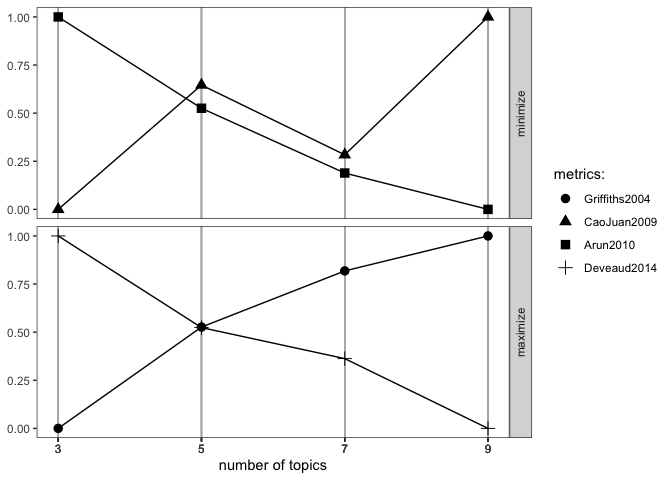
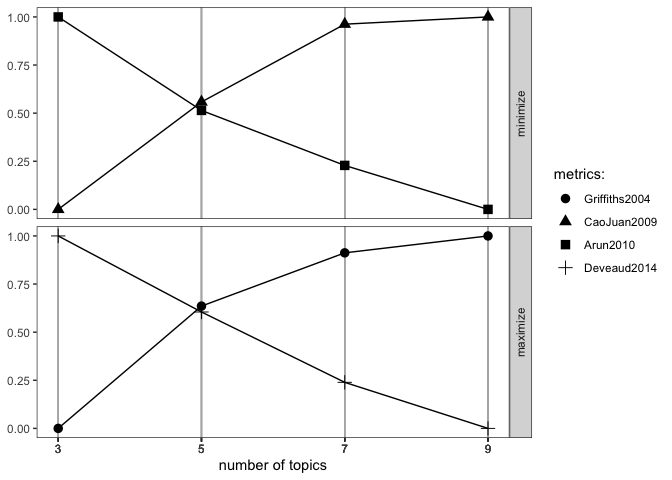
fixed several typos for next cran release

diff --git a/README.md b/README.md
@@ -23,7 +23,7 @@ You can install `Twitmo` from CRAN with:
 install.packages("Twitmo")
 ```
 
-You can install `Twitmo` from GitHub with:
+You can install `Twitmo` from Github with:
 
 Before you install from Github make sure you have Rtools for
 [Windows](https://cran.r-project.org/bin/windows/Rtools/ "Rtools for Windows (CRAN)")
@@ -102,17 +102,17 @@ model <- fit_lda(pool.dfm, n_topics = 7)
 
 ``` r
 lda_terms(model)
-#>    Topic.1 Topic.2       Topic.3       Topic.4   Topic.5 Topic.6      Topic.7
-#> 1    paola    meet tenrestaurant          like       see morning         team
-#> 2     says  people      downtown          time       job   music          job
-#> 3    puppy   first     knoxville            us      link     see       season
-#> 4      bio     big         crazy      birthday       bio holiday championship
-#> 5     link  always       covered     girlhappy     click  church    democrats
-#> 6   hiring    love        waffle birthdaytasha     great  sunday         jeff
-#> 7      job    last        sooooo        church       can    yall     sessions
-#> 8    click   night         today          life recommend    word         lose
-#> 9       sc     fun        laurel     beautiful    anyone general           us
-#> 10  latest    good          glen       posting     today worship        place
+#>      Topic.1       Topic.2   Topic.3 Topic.4       Topic.5 Topic.6    Topic.7
+#> 1      today         music beautiful   paola           job    good   downtown
+#> 2     laurel       holiday      life    says          link    meet  knoxville
+#> 3       glen          time    season   puppy           bio  people       like
+#> 4   trailing      birthday      like  church tenrestaurant   first         us
+#> 5       oaks     girlhappy   posting     job         click     big       care
+#> 6    tuscany birthdaytasha      olde      us           see  always     theres
+#> 7         ii         today       end    link         crazy    love    nothing
+#> 8     design       morning      days     bio       covered    last      quite
+#> 9  perfectly         early    grains     see        waffle   night         tn
+#> 10     sized    photoshoot      sand  sunday        sooooo     fun especially
 ```
 
 or which hashtags are heavily associated with each topic
@@ -122,52 +122,52 @@ lda_hashtags(model)
 #>                      Topic
 #> mood                     4
 #> motivate                 5
-#> healthcare               5
-#> mrrbnsnathome            3
-#> newyork                  3
-#> breakfast                3
-#> thisismyplace            6
-#> p4l                      6
-#> chinup                   1
-#> sundayfunday             1
-#> saintsgameday            1
-#> instapuppy               1
-#> woof                     1
-#> tailswagging             1
-#> tickfire                 6
-#> msiclassic               7
-#> nyc                      2
-#> about                    2
-#> joethecrane              2
-#> government               1
-#> ladystrut19              6
-#> ladystrutaccessories     6
-#> smartnews                7
-#> sundaythoughts           5
-#> sf100                    2
-#> openhouse                3
-#> springtx                 3
+#> healthcare               7
+#> mrrbnsnathome            5
+#> newyork                  5
+#> breakfast                5
+#> thisismyplace            4
+#> p4l                      4
+#> chinup                   4
+#> sundayfunday             4
+#> saintsgameday            4
+#> instapuppy               4
+#> woof                     4
+#> tailswagging             4
+#> tickfire                 1
+#> msiclassic               3
+#> nyc                      6
+#> about                    6
+#> joethecrane              6
+#> government               5
+#> ladystrut19              2
+#> ladystrutaccessories     2
+#> smartnews                5
+#> sundaythoughts           2
+#> sf100                    6
+#> openhouse                1
+#> springtx                 1
 #> labor                    5
 #> norfolk                  5
-#> oprylandhotel            7
-#> pharmaceutical           4
-#> easthanover              1
-#> sales                    1
-#> scryingartist            4
-#> beautifulskyz            4
-#> knoxvilletn              3
-#> downtownknoxville        3
-#> heartofservice           4
-#> youthmagnet              4
-#> youthmentor              4
-#> bonjour                  6
+#> oprylandhotel            3
+#> pharmaceutical           5
+#> easthanover              4
+#> sales                    4
+#> scryingartist            3
+#> beautifulskyz            3
+#> knoxvilletn              7
+#> downtownknoxville        7
+#> heartofservice           2
+#> youthmagnet              2
+#> youthmentor              2
+#> bonjour                  2
 #> trump2020                6
-#> spiritchat               4
-#> columbia                 1
-#> newcastle                7
+#> spiritchat               7
+#> columbia                 3
+#> newcastle                4
 #> oncology                 5
-#> nbatwitter               7
-#> detroit                  1
+#> nbatwitter               1
+#> detroit                  5
 ```
 
 ## Inspecting LDA distributions
@@ -177,54 +177,54 @@ Check the distribution of your LDA Model with
 ``` r
 lda_distribution(model)
 #>                         V1    V2    V3    V4    V5    V6    V7
-#> mood                 0.001 0.001 0.001 0.995 0.001 0.001 0.001
-#> motivate             0.001 0.001 0.001 0.001 0.993 0.001 0.001
-#> healthcare           0.001 0.001 0.001 0.001 0.996 0.001 0.001
-#> mrrbnsnathome        0.002 0.002 0.988 0.002 0.002 0.002 0.002
-#> newyork              0.002 0.002 0.988 0.002 0.002 0.002 0.002
-#> breakfast            0.002 0.002 0.988 0.002 0.002 0.002 0.002
-#> thisismyplace        0.001 0.001 0.001 0.001 0.001 0.993 0.001
-#> p4l                  0.001 0.001 0.001 0.001 0.001 0.993 0.001
-#> chinup               0.975 0.004 0.004 0.004 0.004 0.004 0.004
-#> sundayfunday         0.975 0.004 0.004 0.004 0.004 0.004 0.004
-#> saintsgameday        0.975 0.004 0.004 0.004 0.004 0.004 0.004
-#> instapuppy           0.975 0.004 0.004 0.004 0.004 0.004 0.004
-#> woof                 0.975 0.004 0.004 0.004 0.004 0.004 0.004
-#> tailswagging         0.975 0.004 0.004 0.004 0.004 0.004 0.004
-#> tickfire             0.001 0.001 0.001 0.001 0.001 0.996 0.001
-#> msiclassic           0.001 0.001 0.001 0.001 0.001 0.001 0.994
-#> nyc                  0.001 0.996 0.001 0.001 0.001 0.001 0.001
-#> about                0.001 0.996 0.001 0.001 0.001 0.001 0.001
-#> joethecrane          0.001 0.996 0.001 0.001 0.001 0.001 0.001
-#> government           0.596 0.001 0.001 0.001 0.400 0.001 0.001
-#> ladystrut19          0.001 0.001 0.001 0.001 0.001 0.996 0.001
-#> ladystrutaccessories 0.001 0.001 0.001 0.001 0.001 0.996 0.001
-#> smartnews            0.001 0.001 0.001 0.001 0.001 0.001 0.996
-#> sundaythoughts       0.001 0.001 0.001 0.001 0.997 0.001 0.001
-#> sf100                0.001 0.995 0.001 0.001 0.001 0.001 0.001
-#> openhouse            0.000 0.000 0.997 0.000 0.000 0.000 0.000
-#> springtx             0.000 0.000 0.997 0.000 0.000 0.000 0.000
-#> labor                0.001 0.001 0.001 0.001 0.995 0.001 0.001
-#> norfolk              0.001 0.001 0.001 0.001 0.995 0.001 0.001
-#> oprylandhotel        0.001 0.001 0.001 0.001 0.001 0.001 0.995
-#> pharmaceutical       0.001 0.001 0.001 0.747 0.249 0.001 0.001
-#> easthanover          0.995 0.001 0.001 0.001 0.001 0.001 0.001
-#> sales                0.995 0.001 0.001 0.001 0.001 0.001 0.001
-#> scryingartist        0.001 0.001 0.001 0.995 0.001 0.001 0.001
-#> beautifulskyz        0.001 0.001 0.001 0.995 0.001 0.001 0.001
-#> knoxvilletn          0.001 0.001 0.994 0.001 0.001 0.001 0.001
-#> downtownknoxville    0.001 0.001 0.994 0.001 0.001 0.001 0.001
-#> heartofservice       0.003 0.003 0.003 0.981 0.003 0.003 0.003
-#> youthmagnet          0.003 0.003 0.003 0.981 0.003 0.003 0.003
-#> youthmentor          0.003 0.003 0.003 0.981 0.003 0.003 0.003
-#> bonjour              0.001 0.001 0.001 0.001 0.001 0.993 0.001
-#> trump2020            0.001 0.001 0.001 0.001 0.001 0.993 0.001
-#> spiritchat           0.001 0.001 0.001 0.996 0.001 0.001 0.001
-#> columbia             0.995 0.001 0.001 0.001 0.001 0.001 0.001
-#> newcastle            0.001 0.001 0.001 0.001 0.001 0.001 0.996
-#> oncology             0.001 0.001 0.001 0.001 0.995 0.001 0.001
-#> nbatwitter           0.001 0.001 0.001 0.001 0.001 0.001 0.997
-#> detroit              0.994 0.001 0.001 0.001 0.001 0.001 0.001
+#> mood                 0.001 0.001 0.001 0.996 0.001 0.001 0.001
+#> motivate             0.001 0.001 0.001 0.001 0.995 0.001 0.001
+#> healthcare           0.001 0.001 0.001 0.001 0.001 0.001 0.996
+#> mrrbnsnathome        0.002 0.002 0.002 0.002 0.990 0.002 0.002
+#> newyork              0.002 0.002 0.002 0.002 0.990 0.002 0.002
+#> breakfast            0.002 0.002 0.002 0.002 0.990 0.002 0.002
+#> thisismyplace        0.001 0.001 0.001 0.995 0.001 0.001 0.001
+#> p4l                  0.001 0.001 0.001 0.995 0.001 0.001 0.001
+#> chinup               0.003 0.003 0.003 0.980 0.003 0.003 0.003
+#> sundayfunday         0.003 0.003 0.003 0.980 0.003 0.003 0.003
+#> saintsgameday        0.003 0.003 0.003 0.980 0.003 0.003 0.003
+#> instapuppy           0.003 0.003 0.003 0.980 0.003 0.003 0.003
+#> woof                 0.003 0.003 0.003 0.980 0.003 0.003 0.003
+#> tailswagging         0.003 0.003 0.003 0.980 0.003 0.003 0.003
+#> tickfire             0.996 0.001 0.001 0.001 0.001 0.001 0.001
+#> msiclassic           0.001 0.001 0.995 0.001 0.001 0.001 0.001
+#> nyc                  0.001 0.001 0.001 0.001 0.001 0.997 0.001
+#> about                0.001 0.001 0.001 0.001 0.001 0.997 0.001
+#> joethecrane          0.001 0.001 0.001 0.001 0.001 0.997 0.001
+#> government           0.001 0.001 0.001 0.001 0.996 0.001 0.001
+#> ladystrut19          0.001 0.996 0.001 0.001 0.001 0.001 0.001
+#> ladystrutaccessories 0.001 0.996 0.001 0.001 0.001 0.001 0.001
+#> smartnews            0.000 0.000 0.000 0.000 0.997 0.000 0.000
+#> sundaythoughts       0.000 0.997 0.000 0.000 0.000 0.000 0.000
+#> sf100                0.001 0.001 0.001 0.001 0.001 0.996 0.001
+#> openhouse            0.998 0.000 0.000 0.000 0.000 0.000 0.000
+#> springtx             0.998 0.000 0.000 0.000 0.000 0.000 0.000
+#> labor                0.001 0.001 0.001 0.001 0.996 0.001 0.001
+#> norfolk              0.001 0.001 0.001 0.001 0.996 0.001 0.001
+#> oprylandhotel        0.001 0.001 0.996 0.001 0.001 0.001 0.001
+#> pharmaceutical       0.001 0.001 0.001 0.001 0.996 0.001 0.001
+#> easthanover          0.001 0.001 0.001 0.996 0.001 0.001 0.001
+#> sales                0.001 0.001 0.001 0.996 0.001 0.001 0.001
+#> scryingartist        0.001 0.001 0.996 0.001 0.001 0.001 0.001
+#> beautifulskyz        0.001 0.001 0.996 0.001 0.001 0.001 0.001
+#> knoxvilletn          0.001 0.001 0.001 0.001 0.001 0.001 0.995
+#> downtownknoxville    0.001 0.001 0.001 0.001 0.001 0.001 0.995
+#> heartofservice       0.002 0.985 0.002 0.002 0.002 0.002 0.002
+#> youthmagnet          0.002 0.985 0.002 0.002 0.002 0.002 0.002
+#> youthmentor          0.002 0.985 0.002 0.002 0.002 0.002 0.002
+#> bonjour              0.001 0.995 0.001 0.001 0.001 0.001 0.001
+#> trump2020            0.001 0.001 0.001 0.001 0.001 0.995 0.001
+#> spiritchat           0.001 0.001 0.001 0.001 0.001 0.001 0.997
+#> columbia             0.001 0.001 0.996 0.001 0.001 0.001 0.001
+#> newcastle            0.001 0.001 0.001 0.997 0.001 0.001 0.001
+#> oncology             0.001 0.001 0.001 0.001 0.996 0.001 0.001
+#> nbatwitter           0.997 0.000 0.000 0.000 0.000 0.000 0.000
+#> detroit              0.001 0.001 0.001 0.001 0.995 0.001 0.001
 ```
 
 # Filtering tweets
@@ -251,7 +251,7 @@ filter_tweets(mytweets, keywords = "football,mood", include = TRUE) %>% dim()
 #> [1] 10 92
 ```
 
-# Fiting a STM
+# Fitting a structural topic model (STM)
 
 Structural topic models can be fitted with additional external
 covariates. In this example we metadata that comes with the tweets such
